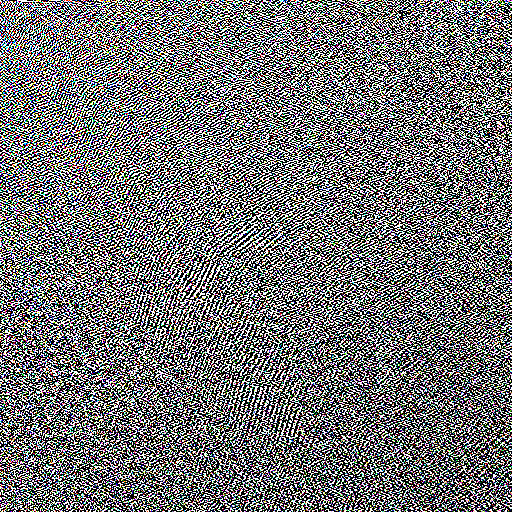
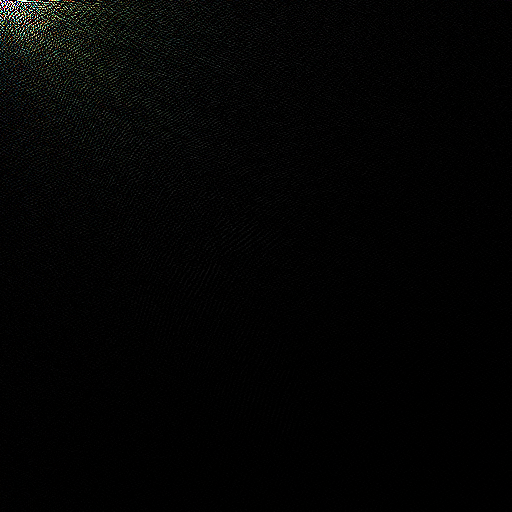
Implement direct DCT-III

diff --git a/signal_processing-fourier/src/util/fct_iii.rs b/signal_processing-fourier/src/util/fct_iii.rs
@@ -1,0 +1,165 @@
+use core::{borrow::{Borrow, BorrowMut}, f64::consts::{FRAC_PI_2, PI}};
+
+use crate::{Dft, Permute, SpectrumScaling, scratch_space::ScratchLength, temp, util::{self, AddAssignSpec, IntoComplex, MulAssignSpec, RealDiv, RealMul, TruncateIm, fft}};
+
+use array_trait::length::{self, LengthValue};
+use bulks::{AsBulk, Bulk, CollectNearest, IntoBulk};
+use num_complex::{Complex, ComplexFloat};
+use num_traits::{Float, FloatConst, NumCast, One, Zero};
+
+pub fn fct_iii_unscaled<B, C, T>(sequence: &mut B, mut temp: Option<&mut [C]>)
+where
+    for<'a> &'a mut B: IntoBulk<Item: BorrowMut<C>>,
+    B: ?Sized,
+    C: ComplexFloat<Real = T> + 'static,
+    T: Float + FloatConst + 'static
+{
+    /*if  fct_iii_radix2_unscaled(sequence, &mut temp) ||
+        dct_iii_fft_unscaled(sequence, &mut temp)
+    {
+        return
+    }*/
+    dct_iii_direct_unscaled(sequence, &mut temp);
+}
+
+pub fn partial_fct_iii_unscaled<B, C, T, M>(sequence: &mut B, temp: &mut [C], m: M)
+where
+    for<'a> &'a mut B: IntoBulk<Item: BorrowMut<C>>,
+    B: ?Sized,
+    C: ComplexFloat<Real = T> + 'static,
+    T: Float + FloatConst + 'static,
+    M: LengthValue
+{
+    let len = sequence.bulk_mut().length();
+    let n = length::value::div(len, length::value::max(m, [(); 1]));
+    let r = length::value::rem(len, length::value::max(m, [(); 1]));
+    
+    let mut buffer = util::recurse_buffer(sequence);
+    temp!(buffer for len);
+
+    let mut iter = temp.bulk_mut()
+        .zip(buffer)
+        .step_by(n)
+        .into_iter();
+    
+    for (temp, bulk) in iter.by_ref()
+        .take(length::value::len(m))
+    {
+        unsafe {
+            fct_iii_unscaled::<[_], C, T>(
+                core::slice::from_raw_parts_mut(temp, length::value::len(n)),
+                Some(core::slice::from_raw_parts_mut(bulk, length::value::len(n)))
+            )
+        }
+    }
+    if length::value::gt(r, [(); 0]) && let Some((temp, bulk)) = iter.next()
+    {
+        unsafe {
+            fct_iii_unscaled::<[_], C, T>(
+                core::slice::from_raw_parts_mut(temp, length::value::len(r)),
+                Some(core::slice::from_raw_parts_mut(bulk, length::value::len(r)))
+            )
+        }
+    }
+}
+
+pub fn dct_iii_fft_unscaled<B, C, T>(sequence: &mut B, temp: &mut Option<&mut [C]>) -> bool
+where
+    for<'a> &'a mut B: IntoBulk<Item: BorrowMut<C>>,
+    B: ?Sized,
+    C: ComplexFloat<Real = T> + 'static,
+    T: Float + FloatConst + 'static
+{
+    let len = sequence.bulk_mut().length();
+    if length::value::le(len, [(); 1])
+    {
+        return false
+    }
+    let len_buf = length::value::mul(len, [(); 2]);
+    let mut temp = temp.as_mut()
+        .map(|temp| unsafe {
+            core::slice::from_raw_parts_mut(temp.as_mut_ptr().cast::<Complex<T>>(), temp.len()/(std::mem::size_of::<Complex<T>>()/std::mem::size_of::<C>()).max(1))
+        });
+    temp!(temp for len_buf);
+
+    let lenf = <T as NumCast>::from(length::value::len(len)).unwrap();
+
+    let frac_pi_2 = T::FRAC_PI_2();
+    let one = T::one();
+    let two = one + one;
+
+    let m = bulks::range([(); 1], len)
+        .map(|i| {
+            let i = <<T as ComplexFloat>::Real as NumCast>::from(i).unwrap();
+            Complex::cis(i*frac_pi_2/lenf)
+        });
+
+    sequence.bulk_mut()
+        .map(|mut x| (*x.borrow_mut(), x))
+        .for_each(|(x, mut y)| *y.borrow_mut() = x._real_div(two));
+    sequence.bulk_mut()
+        .map(|mut x| *x.borrow_mut())
+        .zip(temp.bulk_mut().take(len))
+        .for_each(|(x, y)| *y = x.into_complex());
+    sequence.bulk_mut()
+        .map(|mut x| *x.borrow_mut())
+        .zip(temp.bulk_mut().skip(len).rev())
+        .for_each(|(x, y)| *y = x.into_complex());
+    temp.dft_scaled(SpectrumScaling::Summed);
+    let (y1, y2) = (*temp).bulk()
+        .split_at(len);
+    let (y0, y1) = y1.split_at([(); 1]);
+    y0.map(|y| C::truncate_im(*y))
+        .chain(
+            bulks::zip(y1, y2.rev())
+                .zip(m)
+                .map(|((y1, y2), m)| C::truncate_im(y1*m.conj() + y2*m)._real_div(two))
+        )
+        .zip(sequence)
+        .for_each(|(y, mut x)| *x.borrow_mut() = y);
+
+    true
+}
+
+pub fn dct_iii_direct_unscaled<B, C, T>(sequence: &mut B, temp: &mut Option<&mut [C]>)
+where
+    for<'a> &'a mut B: IntoBulk<Item: BorrowMut<C>>,
+    B: ?Sized,
+    C: ComplexFloat<Real = T> + 'static,
+    T: Float + 'static
+{
+    let len = sequence.bulk_mut().length();
+
+    let x_first = match sequence.bulk_mut().first().map(|mut x| *x.borrow_mut())
+    {
+        Some(x_first) => x_first,
+        None => return
+    };
+
+    temp!(temp for len);
+
+    let wn_half = Complex::cis(<T as NumCast>::from(
+        FRAC_PI_2/length::value::len(len) as f64
+    ).unwrap());
+    let wn = wn_half*wn_half;
+    let mut wnk = wn_half;
+    let two = <T as NumCast>::from(2).unwrap();
+
+    let first_term = x_first._real_div(two);
+
+    sequence.bulk_mut()
+        .zip(temp.borrow_mut())
+        .for_each(|(mut src, dst)| { *dst = core::mem::replace(src.borrow_mut(), first_term); });
+        
+    sequence.bulk_mut()
+        .for_each(|mut y| {
+            let mut wnki = wnk;
+            (*temp).bulk()
+                .skip([(); 1])
+                .for_each(|x| {
+                    y.borrow_mut()._add_assign(x._real_mul(wnki.re));
+                    wnki._mul_assign(wnk);
+                });
+            wnk._mul_assign(wn);
+        });
+}

diff --git a/signal_processing-fourier/src/dct.rs b/signal_processing-fourier/src/dct.rs
@@ -280,7 +280,7 @@ mod test
     use bulks::{AsBulk, Bulk, IntoBulk};
     use linspace::Linspace;
 
-    use crate::{Dct, Dst, SpectrumScaling, tests, util::fct_ii};
+    use crate::{Dct, Dst, SpectrumScaling, tests, util::{fct_ii, fct_iii}};
 
     #[test]
     fn plot_dct()
@@ -484,7 +484,7 @@ mod test
     #[test]
     fn test_dct_ii()
     {
-        let a = [1, 2, 3, 4, 5, 6, 7, 8]
+        let a = [1, 2, 3, 4, 5, 6, 7, 8, 9, 11]
             .into_bulk()
             .map(|x| x as f64)
             .collect_array();
@@ -574,8 +574,8 @@ mod test
         
         let mut b = a;
         let mut c = a;
-        b.dct_iii();
-        dct_iii_direct(&mut c);
+        b.dct_iii_scaled(SpectrumScaling::Summed);
+        fct_iii::dct_iii_direct_unscaled::<[f64], f64, f64>(&mut c, &mut None);
 
         println!("{b:?}");
         println!("{c:?}");
@@ -583,12 +583,12 @@ mod test
         
         let mut b = a;
         let mut c = a;
-        b.dct_iii_scaled(SpectrumScaling::Summed);
-        dct_iii_direct_unscaled(&mut c);
+        b.dct_iii();
+        dct_iii_direct(&mut c);
 
         println!("{b:?}");
         println!("{c:?}");
-        assert!(tests::approx_eq(&b, &c, 1e-5))
+        assert!(tests::approx_eq(&b, &c, 1e-5));
     }
 
     #[test]
@@ -627,8 +627,8 @@ mod test
 
         let mut b = a;
         let mut c = a;
-        b.dct_iv();
-        dct_iv_direct(&mut c);
+        b.dct_iv_scaled(SpectrumScaling::Summed);
+        dct_iv_direct_unscaled(&mut c);
 
         println!("{b:?}");
         println!("{c:?}");
@@ -636,12 +636,12 @@ mod test
 
         let mut b = a;
         let mut c = a;
-        b.dct_iv_scaled(SpectrumScaling::Summed);
-        dct_iv_direct_unscaled(&mut c);
+        b.dct_iv();
+        dct_iv_direct(&mut c);
 
         println!("{b:?}");
         println!("{c:?}");
-        assert!(tests::approx_eq(&b, &c, 1e-5))
+        assert!(tests::approx_eq(&b, &c, 1e-5));
     }
 
     #[test]

diff --git a/signal_processing-fourier/src/util/fct_ii.rs b/signal_processing-fourier/src/util/fct_ii.rs
@@ -14,7 +14,7 @@ where
     C: ComplexFloat<Real = T> + 'static,
     T: Float + FloatConst + 'static
 {
-    if  //fct_ii_radix2_unscaled(sequence, &mut temp) ||
+    if  fct_ii_radix2_unscaled(sequence, &mut temp) ||
         dct_ii_fft_unscaled(sequence, &mut temp)
     {
         return
@@ -78,8 +78,6 @@ where
         /*if util::is_power_of(len, [(); 2])
         {
             // In-place DCT II
-            temp!(temp for len);
-
             sequence.bit_rev_permute();
             
             for s in 0..length::value::len(len).ilog2()
@@ -115,7 +113,6 @@ where
 
         temp!(temp for len);
 
-        let m = 2;
         let ldiv = length::value::len(len)/2;
         let wn_half = Complex::cis(<T as NumCast>::from(FRAC_PI_2/length::value::len(len) as f64).unwrap());
         let wn = wn_half*wn_half;
@@ -130,7 +127,7 @@ where
                 let [x1, x2] = sequence.bulk_mut()
                     .map(|mut x| *x.borrow_mut())
                     .skip(k)
-                    .step_by(length::value::len(len) - k - 1)
+                    .step_by(length::value::len(len) - k*2 - 1)
                     .map(Some)
                     .resize_with([(); _], || None)
                     .try_collect_array()
@@ -197,13 +194,11 @@ where
         return false
     }
     let len_buf = length::value::mul(len, [(); 2]);
-    /*let mut temp = temp.as_mut()
+    let mut temp = temp.as_mut()
         .map(|temp| unsafe {
             core::slice::from_raw_parts_mut(temp.as_mut_ptr().cast::<Complex<T>>(), temp.len()/(std::mem::size_of::<Complex<T>>()/std::mem::size_of::<C>()).max(1))
         });
-    temp!(temp for len_buf);*/
-    let mut temp = ScratchLength::scratch_space(len_buf, Complex::zero());
-    let temp: &mut [_] = temp.borrow_mut();
+    temp!(temp for len_buf);
 
     let lenf = <T as NumCast>::from(length::value::len(len)).unwrap();
 

diff --git a/signal_processing-fourier/src/dct_2d.rs b/signal_processing-fourier/src/dct_2d.rs
@@ -114,9 +114,13 @@ mod test
             })
         });
         
+        println!("DCT-II begin.");
         r.dct_ii_2d();
+        println!("DCT-II done.");
         g.dct_ii_2d();
+        println!("DCT-II done.");
         b.dct_ii_2d();
+        println!("DCT-II done.");
 
         for i in 0..n
         {
@@ -151,9 +155,13 @@ mod test
             }
         }
 
+        println!("DCT-III begin.");
         r.dct_iii_2d();
+        println!("DCT-III done.");
         g.dct_iii_2d();
+        println!("DCT-III done.");
         b.dct_iii_2d();
+        println!("DCT-III done.");
 
         for i in 0..n
         {

diff --git a/signal_processing-fourier/src/util/mod.rs b/signal_processing-fourier/src/util/mod.rs
@@ -10,6 +10,7 @@ moddef!(
     pub(crate) mod {
         fct_i,
         fct_ii,
+        fct_iii,
         fft
     },
     flat(pub(crate)) mod {